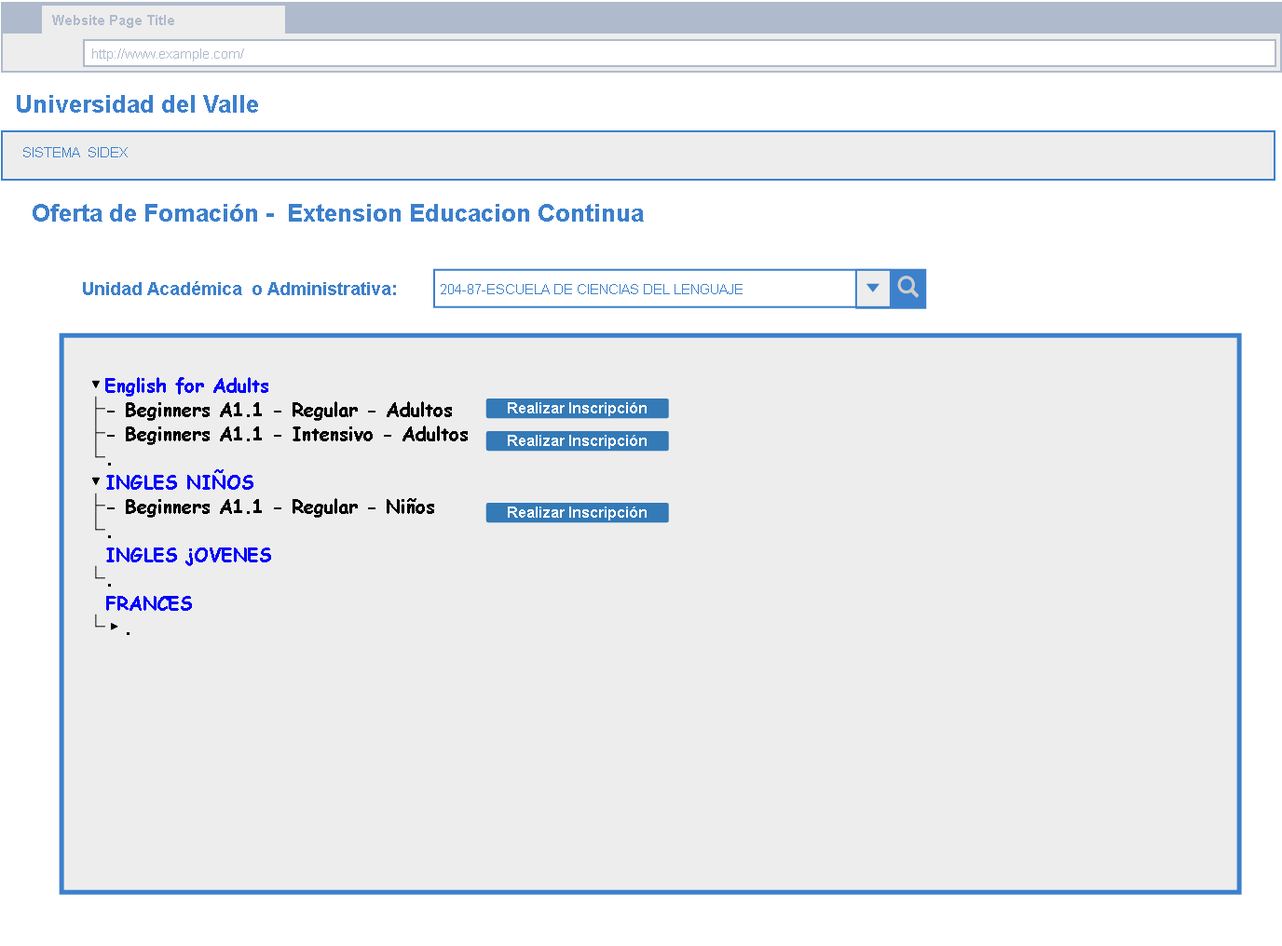
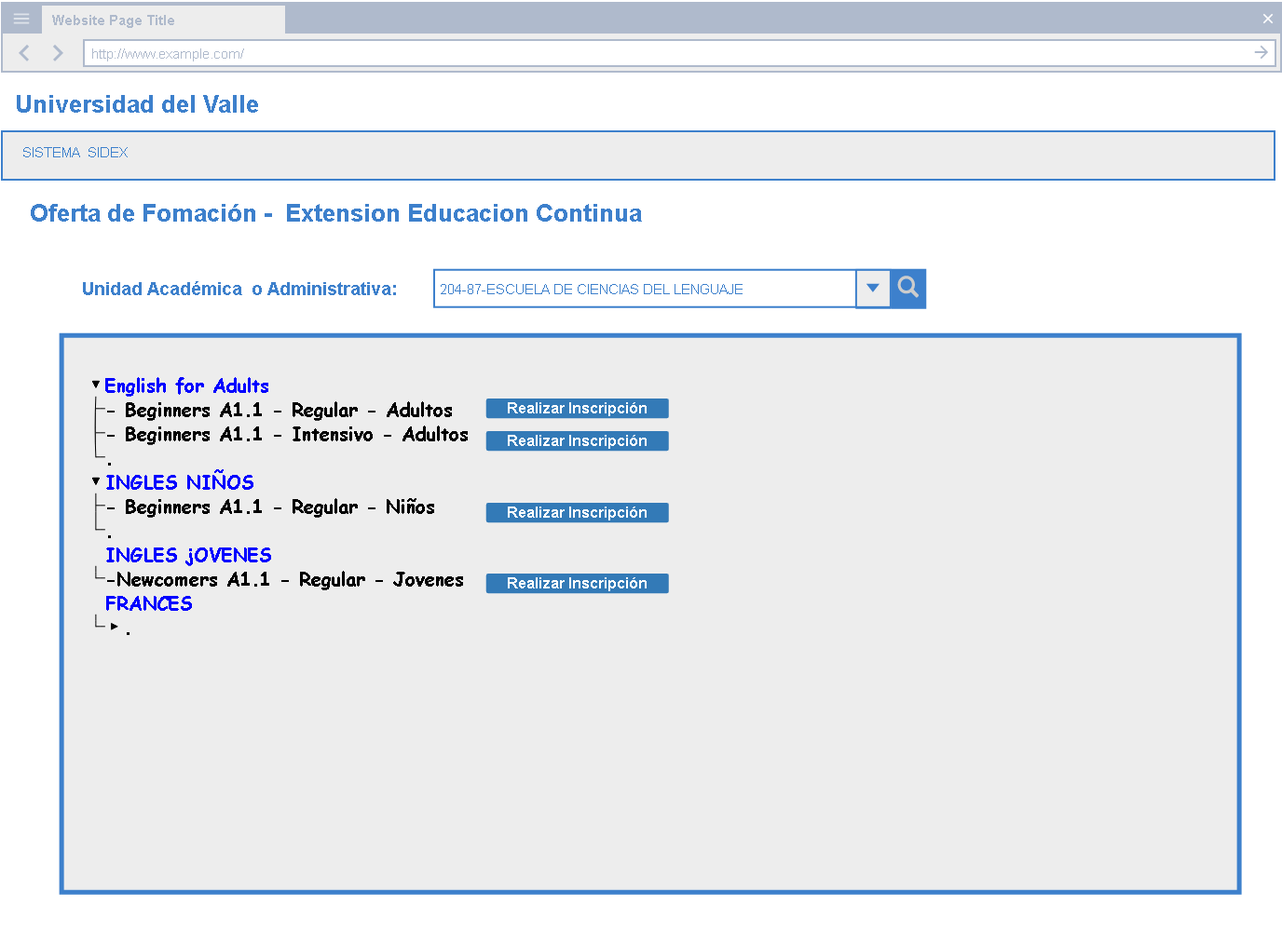
Add files via upload

diff --git a/index.html b/index.html
@@ -1,2 +1,2 @@
 <html xmlns="http://www.w3.org/1999/xhtml" xmlns:p="http://www.evolus.vn/Namespace/Pencil" xmlns:html="http://www.w3.org/1999/xhtml"><head><meta http-equiv="Content-Type" content="text/html; charset=UTF-8" />
-<title>ECNiveles26-06-19</title><link rel="stylesheet" href="Resources/SampleStyle.css" /></head><body><h1 id="documentTitle">ECNiveles26-06-19</h1><p id="documentMetadata">Exported at: Mon Jul 15 2019 14:00:51 GMT-0500 (Hora est. Pacífico, Sudamérica)</p><div class="Page" id="0oferta_de_formacion_page"><h2>0-Oferta de formacion</h2><div class="ImageContainer"><img src="pages\0oferta_de_formacion.png" width="1376" height="1016" usemap="#map_0oferta_de_formacion" /></div><map name="map_0oferta_de_formacion"><area shape="rect" coords="521.8359375,540.046875,717.851928710938,561.1875" href="#13_formacion_prueba_opcional_page" title="Go to page '1-3 Formacion Prueba opcional'" /><area shape="rect" coords="521.8359375,428.046875,717.851928710938,449.187469482422" href="#12_formacion_sin_pruebas_page" title="Go to page '1-2 -Formacion Sin pruebas'" /></map></div><div class="Page" id="12_formacion_sin_pruebas_page"><h2>1-2 -Formacion Sin pruebas</h2><div class="ImageContainer"><img src="pages\12_formacion_sin_pruebas.png" width="1376" height="1016" usemap="#map_12_formacion_sin_pruebas" /></div><map name="map_12_formacion_sin_pruebas"></map></div><div class="Page" id="13_formacion_prueba_opcional_page"><h2>1-3 Formacion Prueba opcional</h2><div class="ImageContainer"><img src="pages\13_formacion_prueba_opcional.png" width="1376" height="1016" usemap="#map_13_formacion_prueba_opcional" /></div><map name="map_13_formacion_prueba_opcional"></map></div><div class="Page" id="14_formacion_obligatoria_page"><h2>1-4 Formacion Obligatoria</h2><div class="ImageContainer"><img src="pages\14_formacion_obligatoria.png" width="1376" height="1016" usemap="#map_14_formacion_obligatoria" /></div><map name="map_14_formacion_obligatoria"></map></div><div class="Page" id="131_formacion_opcional_si_page"><h2>1-3.1 Formacion Opcional Si</h2><div class="ImageContainer"><img src="pages\131_formacion_opcional_si.png" width="1376" height="1016" usemap="#map_131_formacion_opcional_si" /></div><map name="map_131_formacion_opcional_si"></map></div><div class="Page" id="132_formacion_opcional_no_page"><h2>1-3.2 Formacion Opcional No</h2><div class="ImageContainer"><img src="pages\132_formacion_opcional_no.png" width="1376" height="1016" usemap="#map_132_formacion_opcional_no" /></div><map name="map_132_formacion_opcional_no"></map></div><div class="Page" id="2datos_basicos_ins__page"><h2>2-Datos basicos ins </h2><div class="ImageContainer"><img src="pages\2datos_basicos_ins_.png" width="1376" height="1016" usemap="#map_2datos_basicos_ins_" /></div><map name="map_2datos_basicos_ins_"></map></div><div class="Page" id="2_1datos_basicos_ins__page"><h2>2- 1Datos basicos ins </h2><div class="ImageContainer"><img src="pages\2_1datos_basicos_ins_.png" width="1376" height="1016" usemap="#map_2_1datos_basicos_ins_" /></div><map name="map_2_1datos_basicos_ins_"></map></div><div class="Page" id="2_20datos_basicos_ins_acudiente_page"><h2>2- 20Datos basicos ins acudiente</h2><div class="ImageContainer"><img src="pages\2_20datos_basicos_ins_acudiente.png" width="1375" height="1016" usemap="#map_2_20datos_basicos_ins_acudiente" /></div><map name="map_2_20datos_basicos_ins_acudiente"></map></div><div class="Page" id="3_descuentos_page"><h2>3- Descuentos</h2><div class="ImageContainer"><img src="pages\3_descuentos.png" width="1376" height="1016" usemap="#map_3_descuentos" /></div><map name="map_3_descuentos"></map></div><div class="Page" id="41_idmguardar_servicios__page"><h2>4.1 I-DM-Guardar- servicios </h2><div class="ImageContainer"><img src="pages\41_idmguardar_servicios_.png" width="1376" height="1016" usemap="#map_41_idmguardar_servicios_" /></div><map name="map_41_idmguardar_servicios_"><area shape="rect" coords="961.375,698,1114.375,745" href="#idmpi_servicios_page" title="Go to page 'I-DM-PI- servicios'" /></map></div><div class="Page" id="42_idmguardar_servicios__page"><h2>4.2 I-DM-Guardar- servicios </h2><div class="ImageContainer"><img src="pages\42_idmguardar_servicios_.png" width="1376" height="1016" usemap="#map_42_idmguardar_servicios_" /></div><map name="map_42_idmguardar_servicios_"><area shape="rect" coords="1036.8125,467.59375,1205.46875,501.59375" href="#idmpm_servicios_page" title="Go to page 'I-DM-PM- servicios'" /></map></div><div class="Page" id="43_idmguardar_servicios_page"><h2>4.3 I-DM-Guardar- servicios-</h2><div class="ImageContainer"><img src="pages\43_idmguardar_servicios.png" width="1376" height="1016" usemap="#map_43_idmguardar_servicios" /></div><map name="map_43_idmguardar_servicios"></map></div><div class="Page" id="44_idmguardar_servicios__page"><h2>4.4 I-DM-Guardar- servicios  </h2><div class="ImageContainer"><img src="pages\44_idmguardar_servicios_.png" width="1376" height="1016" usemap="#map_44_idmguardar_servicios_" /></div><map name="map_44_idmguardar_servicios_"><area shape="rect" coords="890.375,678,1043.375,725" href="#idmpi_servicios_page" title="Go to page 'I-DM-PI- servicios'" /></map></div><div class="Page" id="46_idmguardar_servicios_page"><h2>4.6 I-DM-Guardar- servicios</h2><div class="ImageContainer"><img src="pages\46_idmguardar_servicios.png" width="1376" height="1016" usemap="#map_46_idmguardar_servicios" /></div><map name="map_46_idmguardar_servicios"></map></div><div class="Page" id="45_idmguardar_servicios_page"><h2>4.5 I-DM-Guardar- servicios</h2><div class="ImageContainer"><img src="pages\45_idmguardar_servicios.png" width="1376" height="1016" usemap="#map_45_idmguardar_servicios" /></div><map name="map_45_idmguardar_servicios"><area shape="rect" coords="1036.8125,516.59375,1205.46875,550.59375" href="#idmpm_servicios_page" title="Go to page 'I-DM-PM- servicios'" /></map></div><div class="Page" id="41_tdmguardar_servicios_page"><h2>4.1 T-DM-Guardar- servicios</h2><div class="ImageContainer"><img src="pages\41_tdmguardar_servicios.png" width="1376" height="1016" usemap="#map_41_tdmguardar_servicios" /></div><map name="map_41_tdmguardar_servicios"><area shape="rect" coords="961.375,698,1114.375,745" href="#idmpi_servicios_page" title="Go to page 'I-DM-PI- servicios'" /></map></div><div class="Page" id="42_t_idmguardar_servicios__page"><h2>4.2 T I-DM-Guardar- servicios </h2><div class="ImageContainer"><img src="pages\42_t_idmguardar_servicios_.png" width="1376" height="1016" usemap="#map_42_t_idmguardar_servicios_" /></div><map name="map_42_t_idmguardar_servicios_"><area shape="rect" coords="1068.28125,569.78125,1254.34375,603.78125" href="#idmpm_servicios_page" title="Go to page 'I-DM-PM- servicios'" /><area shape="rect" coords="1024.8125,517.59375,1193.46875,551.59375" href="#idmpm_servicios_page" title="Go to page 'I-DM-PM- servicios'" /><area shape="rect" coords="1024.8125,474.59375,1193.46875,508.59375" href="#idmpm_servicios_page" title="Go to page 'I-DM-PM- servicios'" /></map></div><div class="Page" id="43_t_idmguardar_servicios_page"><h2>4.3 T I-DM-Guardar- servicios</h2><div class="ImageContainer"><img src="pages\43_t_idmguardar_servicios.png" width="1376" height="1016" usemap="#map_43_t_idmguardar_servicios" /></div><map name="map_43_t_idmguardar_servicios"></map></div><div class="Page" id="5_pago_prl__page"><h2>5 -PAGO PRL </h2><div class="ImageContainer"><img src="pages\5_pago_prl_.png" width="1376" height="1016" usemap="#map_5_pago_prl_" /></div><map name="map_5_pago_prl_"></map></div><div class="Page" id="6_constancia_page"><h2>6 -CONSTANCIA</h2><div class="ImageContainer"><img src="pages\6_constancia.png" width="1376" height="1016" usemap="#map_6_constancia" /></div><map name="map_6_constancia"></map></div><div class="Page" id="ingreso_estudiantes_a_matricula_page"><h2>Ingreso Estudiantes a Matricula</h2><div class="ImageContainer"><img src="pages\ingreso_estudiantes_a_matricula.png" width="1376" height="1016" usemap="#map_ingreso_estudiantes_a_matricula" /></div><map name="map_ingreso_estudiantes_a_matricula"></map></div><div class="Page" id="ingreso_estudiantes_page"><h2>Ingreso Estudiantes</h2><div class="ImageContainer"><img src="pages\ingreso_estudiantes.png" width="1371" height="769" usemap="#map_ingreso_estudiantes" /></div><map name="map_ingreso_estudiantes"></map></div><div class="Page" id="12_formacion_sin_pruebas_1_page"><h2>1-2 -Formacion Sin pruebas (1)</h2><div class="ImageContainer"><img src="pages\12_formacion_sin_pruebas_1.png" width="1376" height="1016" usemap="#map_12_formacion_sin_pruebas_1" /></div><map name="map_12_formacion_sin_pruebas_1"></map></div></body></html>
+<title>ECnivelesR31072019</title><link rel="stylesheet" href="Resources/SampleStyle.css" /></head><body><h1 id="documentTitle">ECnivelesR31072019</h1><p id="documentMetadata">Exported at: Wed Jul 31 2019 20:49:13 GMT-0500 (Hora est. Pacífico, Sudamérica)</p><div class="Page" id="prototipos_page"><h2>Prototipos</h2><div class="ImageContainer"><img src="pages\prototipos.png" width="1371" height="1400" usemap="#map_prototipos" /></div><map name="map_prototipos"><area shape="rect" coords="544.9375,208,691.9375,299" href="#calificacion_page" title="Go to page 'Calificacion'" /><area shape="rect" coords="208.9375,208,355.9375,299" href="#ingreso_estudiantes_a_matricula_page" title="Go to page 'Ingreso Estudiantes a Matricula'" /><area shape="rect" coords="40.9375,208,184,299" href="#0oferta_de_formacion_page" title="Go to page '0-Oferta de formacion'" /></map></div><div class="Page" id="0oferta_de_formacion_page"><h2>0-Oferta de formacion</h2><div class="ImageContainer"><img src="pages\0oferta_de_formacion.png" width="1376" height="1016" usemap="#map_0oferta_de_formacion" /></div><map name="map_0oferta_de_formacion"><area shape="rect" coords="521.8359375,616.046875,717.851928710938,637.1875" href="#12_formacion_sin_pruebas_page" title="Go to page '1-2 -Formacion Sin pruebas'" /><area shape="rect" coords="521.8359375,540.046875,717.851928710938,561.1875" href="#14_formacion_obligatoria_page" title="Go to page '1-4 Formacion Obligatoria'" /><area shape="rect" coords="521.8359375,428.046875,717.851928710938,449.187469482422" href="#13_formacion_prueba_opcional_page" title="Go to page '1-3 Formacion Prueba opcional'" /><area shape="rect" coords="24,155.0625,141,172.0625" href="#prototipos_page" title="Go to page 'Prototipos'" /></map></div><div class="Page" id="41_idmguardar_servicios__page"><h2>4.1 I-DM-Guardar- servicios </h2><div class="ImageContainer"><img src="pages\41_idmguardar_servicios_.png" width="1376" height="1016" usemap="#map_41_idmguardar_servicios_" /></div><map name="map_41_idmguardar_servicios_"><area shape="rect" coords="961.375,698,1114.375,745" href="#idmpi_servicios_page" title="Go to page 'I-DM-PI- servicios'" /></map></div><div class="Page" id="42_idmguardar_servicios__page"><h2>4.2 I-DM-Guardar- servicios </h2><div class="ImageContainer"><img src="pages\42_idmguardar_servicios_.png" width="1376" height="1016" usemap="#map_42_idmguardar_servicios_" /></div><map name="map_42_idmguardar_servicios_"><area shape="rect" coords="1036.8125,467.59375,1205.46875,501.59375" href="#idmpm_servicios_page" title="Go to page 'I-DM-PM- servicios'" /></map></div><div class="Page" id="43_idmguardar_servicios_page"><h2>4.3 I-DM-Guardar- servicios-</h2><div class="ImageContainer"><img src="pages\43_idmguardar_servicios.png" width="1376" height="1016" usemap="#map_43_idmguardar_servicios" /></div><map name="map_43_idmguardar_servicios"></map></div><div class="Page" id="44_idmguardar_servicios__page"><h2>4.4 I-DM-Guardar- servicios  </h2><div class="ImageContainer"><img src="pages\44_idmguardar_servicios_.png" width="1376" height="1016" usemap="#map_44_idmguardar_servicios_" /></div><map name="map_44_idmguardar_servicios_"><area shape="rect" coords="890.375,678,1043.375,725" href="#idmpi_servicios_page" title="Go to page 'I-DM-PI- servicios'" /></map></div><div class="Page" id="46_idmguardar_servicios_page"><h2>4.6 I-DM-Guardar- servicios</h2><div class="ImageContainer"><img src="pages\46_idmguardar_servicios.png" width="1376" height="1016" usemap="#map_46_idmguardar_servicios" /></div><map name="map_46_idmguardar_servicios"></map></div><div class="Page" id="45_idmguardar_servicios_page"><h2>4.5 I-DM-Guardar- servicios</h2><div class="ImageContainer"><img src="pages\45_idmguardar_servicios.png" width="1376" height="1016" usemap="#map_45_idmguardar_servicios" /></div><map name="map_45_idmguardar_servicios"><area shape="rect" coords="1036.8125,516.59375,1205.46875,550.59375" href="#idmpm_servicios_page" title="Go to page 'I-DM-PM- servicios'" /></map></div><div class="Page" id="2datos_basicos_ins__page"><h2>2-Datos basicos ins </h2><div class="ImageContainer"><img src="pages\2datos_basicos_ins_.png" width="1376" height="1016" usemap="#map_2datos_basicos_ins_" /></div><map name="map_2datos_basicos_ins_"><area shape="rect" coords="878.3125,409,976.3125,443" href="#2_1datos_basicos_ins__page" title="Go to page '2- 1Datos basicos ins '" /><area shape="rect" coords="66.9375,267.875,313.9375,325.875" href="#12_formacion_sin_pruebas_page" title="Go to page '1-2 -Formacion Sin pruebas'" /><area shape="rect" coords="24,155.0625,141,172.0625" href="#1formacion_page" title="Go to page '1-Formacion'" /></map></div><div class="Page" id="2_1datos_basicos_ins__page"><h2>2- 1Datos basicos ins </h2><div class="ImageContainer"><img src="pages\2_1datos_basicos_ins_.png" width="1376" height="1016" usemap="#map_2_1datos_basicos_ins_" /></div><map name="map_2_1datos_basicos_ins_"><area shape="rect" coords="827.625,451.1875,1168.25,546.5" href="#2_20datos_basicos_ins_acudiente_page" title="Go to page '2- 20Datos basicos ins acudiente'" /><area shape="rect" coords="1123.810546875,826.9546508789062,1201.97961425781,861.01318359375" href="#3_descuentos_page" title="Go to page '3- Descuentos'" /><area shape="rect" coords="924.75,827.34375,1171.75,861.34375" href="#3_descuentos_1_page" title="Go to page '3- Descuentos (1)'" /><area shape="rect" coords="66.9375,267.875,313.9375,325.875" href="#12_formacion_sin_pruebas_page" title="Go to page '1-2 -Formacion Sin pruebas'" /></map></div><div class="Page" id="2_20datos_basicos_ins_acudiente_page"><h2>2- 20Datos basicos ins acudiente</h2><div class="ImageContainer"><img src="pages\2_20datos_basicos_ins_acudiente.png" width="1375" height="1016" usemap="#map_2_20datos_basicos_ins_acudiente" /></div><map name="map_2_20datos_basicos_ins_acudiente"><area shape="rect" coords="924.75,901.34375,1171.75,935.34375" href="#3_descuentos_1_page" title="Go to page '3- Descuentos (1)'" /></map></div><div class="Page" id="41_tdmguardar_servicios_page"><h2>4.1 T-DM-Guardar- servicios</h2><div class="ImageContainer"><img src="pages\41_tdmguardar_servicios.png" width="1376" height="1016" usemap="#map_41_tdmguardar_servicios" /></div><map name="map_41_tdmguardar_servicios"><area shape="rect" coords="967.375,688,1120.375,735" href="#idmpi_servicios_page" title="Go to page 'I-DM-PI- servicios'" /></map></div><div class="Page" id="42_t_idmguardar_servicios__page"><h2>4.2 T I-DM-Guardar- servicios </h2><div class="ImageContainer"><img src="pages\42_t_idmguardar_servicios_.png" width="1376" height="1016" usemap="#map_42_t_idmguardar_servicios_" /></div><map name="map_42_t_idmguardar_servicios_"><area shape="rect" coords="1068.28125,569.78125,1254.34375,603.78125" href="#5_pago_prl__page" title="Go to page '5 -PAGO PRL '" /><area shape="rect" coords="1024.8125,517.59375,1193.46875,551.59375" href="#5_pago_prl__page" title="Go to page '5 -PAGO PRL '" /><area shape="rect" coords="1024.8125,474.59375,1193.46875,508.59375" href="#5_pago_prl__page" title="Go to page '5 -PAGO PRL '" /></map></div><div class="Page" id="43_t_idmguardar_servicios_page"><h2>4.3 T I-DM-Guardar- servicios</h2><div class="ImageContainer"><img src="pages\43_t_idmguardar_servicios.png" width="1376" height="1016" usemap="#map_43_t_idmguardar_servicios" /></div><map name="map_43_t_idmguardar_servicios"></map></div><div class="Page" id="5_pago_prl__page"><h2>5 -PAGO PRL </h2><div class="ImageContainer"><img src="pages\5_pago_prl_.png" width="1376" height="1016" usemap="#map_5_pago_prl_" /></div><map name="map_5_pago_prl_"></map></div><div class="Page" id="3_descuentos_page"><h2>3- Descuentos</h2><div class="ImageContainer"><img src="pages\3_descuentos.png" width="1376" height="1016" usemap="#map_3_descuentos" /></div><map name="map_3_descuentos"><area shape="rect" coords="1194.998046875,826.9546508789062,1257.16711425781,861.01318359375" href="#41_tdmguardar_servicios_page" title="Go to page '4.1 T-DM-Guardar- servicios'" /><area shape="rect" coords="997.75,827.75,1244.75,862.34375" href="#41_tdmguardar_servicios_page" title="Go to page '4.1 T-DM-Guardar- servicios'" /><area shape="rect" coords="972.1453247070312,827.75,1255.16723632813,862.34375" href="#41_idmguardar_servicios__page" title="Go to page '4.1 I-DM-Guardar- servicios '" /></map></div><div class="Page" id="12_formacion_sin_pruebas_page"><h2>1-2 -Formacion Sin pruebas</h2><div class="ImageContainer"><img src="pages\12_formacion_sin_pruebas.png" width="1376" height="1016" usemap="#map_12_formacion_sin_pruebas" /></div><map name="map_12_formacion_sin_pruebas"><area shape="rect" coords="916.3328247070312,904.2984008789062,1209.66723632813,938.389343261719" href="#2datos_basicos_ins_1_1_page" title="Go to page '2-Datos basicos ins (1) (1)'" /><area shape="rect" coords="24,155.0625,141,172.0625" href="#0oferta_de_formacion_page" title="Go to page '0-Oferta de formacion'" /></map></div><div class="Page" id="13_formacion_prueba_opcional_page"><h2>1-3 Formacion Prueba opcional</h2><div class="ImageContainer"><img src="pages\13_formacion_prueba_opcional.png" width="1376" height="1016" usemap="#map_13_formacion_prueba_opcional" /></div><map name="map_13_formacion_prueba_opcional"><area shape="rect" coords="437.9375,744,477.9375,762" href="#131_formacion_opcional_si_page" title="Go to page '1-3.1 Formacion Opcional Si'" /></map></div><div class="Page" id="14_formacion_obligatoria_page"><h2>1-4 Formacion Obligatoria</h2><div class="ImageContainer"><img src="pages\14_formacion_obligatoria.png" width="1376" height="1016" usemap="#map_14_formacion_obligatoria" /></div><map name="map_14_formacion_obligatoria"><area shape="rect" coords="916.3328247070312,904.2984008789062,1209.66723632813,938.389343261719" href="#2datos_basicos_ins_1_1_page" title="Go to page '2-Datos basicos ins (1) (1)'" /><area shape="rect" coords="24,155.0625,141,172.0625" href="#0oferta_de_formacion_page" title="Go to page '0-Oferta de formacion'" /></map></div><div class="Page" id="131_formacion_opcional_si_page"><h2>1-3.1 Formacion Opcional Si</h2><div class="ImageContainer"><img src="pages\131_formacion_opcional_si.png" width="1376" height="1016" usemap="#map_131_formacion_opcional_si" /></div><map name="map_131_formacion_opcional_si"><area shape="rect" coords="351.0234375,740,396.0234375,758" href="#132_formacion_opcional_no_page" title="Go to page '1-3.2 Formacion Opcional No'" /><area shape="rect" coords="916.3328247070312,904.2984008789062,1209.66723632813,938.389343261719" href="#2datos_basicos_ins__page" title="Go to page '2-Datos basicos ins '" /><area shape="rect" coords="24,155.0625,141,172.0625" href="#0oferta_de_formacion_page" title="Go to page '0-Oferta de formacion'" /></map></div><div class="Page" id="132_formacion_opcional_no_page"><h2>1-3.2 Formacion Opcional No</h2><div class="ImageContainer"><img src="pages\132_formacion_opcional_no.png" width="1376" height="1016" usemap="#map_132_formacion_opcional_no" /></div><map name="map_132_formacion_opcional_no"><area shape="rect" coords="916.3328247070312,903.2984008789062,1209.66723632813,937.389343261719" href="#2datos_basicos_ins_1_1_page" title="Go to page '2-Datos basicos ins (1) (1)'" /><area shape="rect" coords="24,155.0625,141,172.0625" href="#0oferta_de_formacion_page" title="Go to page '0-Oferta de formacion'" /></map></div><div class="Page" id="6_constancia_page"><h2>6 -CONSTANCIA</h2><div class="ImageContainer"><img src="pages\6_constancia.png" width="1376" height="1016" usemap="#map_6_constancia" /></div><map name="map_6_constancia"></map></div><div class="Page" id="ingreso_estudiantes_a_matricula_page"><h2>Ingreso Estudiantes a Matricula</h2><div class="ImageContainer"><img src="pages\ingreso_estudiantes_a_matricula.png" width="1376" height="1016" usemap="#map_ingreso_estudiantes_a_matricula" /></div><map name="map_ingreso_estudiantes_a_matricula"></map></div><div class="Page" id="ingreso_estudiantes_menu_page"><h2>Ingreso Estudiantes menu</h2><div class="ImageContainer"><img src="pages\ingreso_estudiantes_menu.png" width="1371" height="769" usemap="#map_ingreso_estudiantes_menu" /></div><map name="map_ingreso_estudiantes_menu"></map></div><div class="Page" id="1_formacion__page"><h2>1- formacion </h2><div class="ImageContainer"><img src="pages\1_formacion_.png" width="1376" height="1016" usemap="#map_1_formacion_" /></div><map name="map_1_formacion_"></map></div><div class="Page" id="3_descuentos_2_page"><h2>3- Descuentos (2)</h2><div class="ImageContainer"><img src="pages\3_descuentos_2.png" width="1376" height="1016" usemap="#map_3_descuentos_2" /></div><map name="map_3_descuentos_2"></map></div><div class="Page" id="4_servicios_page"><h2>4- Servicios</h2><div class="ImageContainer"><img src="pages\4_servicios.png" width="1376" height="1016" usemap="#map_4_servicios" /></div><map name="map_4_servicios"><area shape="rect" coords="961.375,698,1114.375,745" href="#idmpi_servicios_page" title="Go to page 'I-DM-PI- servicios'" /></map></div><div class="Page" id="2_ficha_de_matricula_page"><h2>2 - Ficha de Matricula</h2><div class="ImageContainer"><img src="pages\2_ficha_de_matricula.png" width="1376" height="1016" usemap="#map_2_ficha_de_matricula" /></div><map name="map_2_ficha_de_matricula"></map></div><div class="Page" id="2_ficha_de_matricula_acudiente_page"><h2>2 - Ficha de Matricula acudiente</h2><div class="ImageContainer"><img src="pages\2_ficha_de_matricula_acudiente.png" width="1376" height="1016" usemap="#map_2_ficha_de_matricula_acudiente" /></div><map name="map_2_ficha_de_matricula_acudiente"></map></div><div class="Page" id="5_pago_page"><h2>5- Pago</h2><div class="ImageContainer"><img src="pages\5_pago.png" width="1376" height="1016" usemap="#map_5_pago" /></div><map name="map_5_pago"></map></div><div class="Page" id="6_constancia__page"><h2>6- Constancia </h2><div class="ImageContainer"><img src="pages\6_constancia_.png" width="1376" height="1016" usemap="#map_6_constancia_" /></div><map name="map_6_constancia_"></map></div><div class="Page" id="calificacion_page"><h2>Calificacion</h2><div class="ImageContainer"><img src="pages\calificacion.png" width="1376" height="1016" usemap="#map_calificacion" /></div><map name="map_calificacion"></map></div><div class="Page" id="ingreso_lider_page"><h2>ingreso lider</h2><div class="ImageContainer"><img src="pages\ingreso_lider.png" width="1371" height="769" usemap="#map_ingreso_lider" /></div><map name="map_ingreso_lider"></map></div><div class="Page" id="calificacion_docente_page"><h2>Calificacion docente</h2><div class="ImageContainer"><img src="pages\calificacion_docente.png" width="1371" height="769" usemap="#map_calificacion_docente" /></div><map name="map_calificacion_docente"></map></div><div class="Page" id="calificacion_docente_editar_page"><h2>Calificacion docente editar</h2><div class="ImageContainer"><img src="pages\calificacion_docente_editar.png" width="1371" height="769" usemap="#map_calificacion_docente_editar" /></div><map name="map_calificacion_docente_editar"></map></div><div class="Page" id="calificacion_lider_grabar_page"><h2>calificacion lider grabar</h2><div class="ImageContainer"><img src="pages\calificacion_lider_grabar.png" width="1371" height="769" usemap="#map_calificacion_lider_grabar" /></div><map name="map_calificacion_lider_grabar"></map></div><div class="Page" id="calificacion_lider_page"><h2>Calificacion lider</h2><div class="ImageContainer"><img src="pages\calificacion_lider.png" width="1371" height="769" usemap="#map_calificacion_lider" /></div><map name="map_calificacion_lider"></map></div><div class="Page" id="calificacion_docentes_busqueda_page"><h2>Calificacion docentes busqueda</h2><div class="ImageContainer"><img src="pages\calificacion_docentes_busqueda.png" width="1371" height="769" usemap="#map_calificacion_docentes_busqueda" /></div><map name="map_calificacion_docentes_busqueda"></map></div><div class="Page" id="ingreso_estudiantes_menu_1_1_page"><h2>Ingreso Estudiantes menu (1) (1)</h2><div class="ImageContainer"><img src="pages\ingreso_estudiantes_menu_1_1.png" width="1371" height="769" usemap="#map_ingreso_estudiantes_menu_1_1" /></div><map name="map_ingreso_estudiantes_menu_1_1"></map></div><div class="Page" id="ingreso_docente_menu_page"><h2>Ingreso docente menu</h2><div class="ImageContainer"><img src="pages\ingreso_docente_menu.png" width="1371" height="769" usemap="#map_ingreso_docente_menu" /></div><map name="map_ingreso_docente_menu"></map></div><div class="Page" id="calificacion_docentes_busqueda_1_page"><h2>Calificacion docentes busqueda (1)</h2><div class="ImageContainer"><img src="pages\calificacion_docentes_busqueda_1.png" width="1371" height="769" usemap="#map_calificacion_docentes_busqueda_1" /></div><map name="map_calificacion_docentes_busqueda_1"></map></div><div class="Page" id="calificacion_grupos_busqueda_page"><h2>Calificacion grupos busqueda</h2><div class="ImageContainer"><img src="pages\calificacion_grupos_busqueda.png" width="1371" height="769" usemap="#map_calificacion_grupos_busqueda" /></div><map name="map_calificacion_grupos_busqueda"></map></div><div class="Page" id="calificacion_docente_1_page"><h2>Calificacion docente (1)</h2><div class="ImageContainer"><img src="pages\calificacion_docente_1.png" width="1371" height="769" usemap="#map_calificacion_docente_1" /></div><map name="map_calificacion_docente_1"></map></div><div class="Page" id="calificacion_docente_editar_1_page"><h2>Calificacion docente editar (1)</h2><div class="ImageContainer"><img src="pages\calificacion_docente_editar_1.png" width="1371" height="769" usemap="#map_calificacion_docente_editar_1" /></div><map name="map_calificacion_docente_editar_1"></map></div><div class="Page" id="calificacion_grupos_listado_page"><h2>Calificacion grupos listado</h2><div class="ImageContainer"><img src="pages\calificacion_grupos_listado.png" width="1371" height="769" usemap="#map_calificacion_grupos_listado" /></div><map name="map_calificacion_grupos_listado"></map></div><div class="Page" id="calificacion_grupos_editar_page"><h2>Calificacion grupos editar</h2><div class="ImageContainer"><img src="pages\calificacion_grupos_editar.png" width="1371" height="769" usemap="#map_calificacion_grupos_editar" /></div><map name="map_calificacion_grupos_editar"></map></div></body></html>
